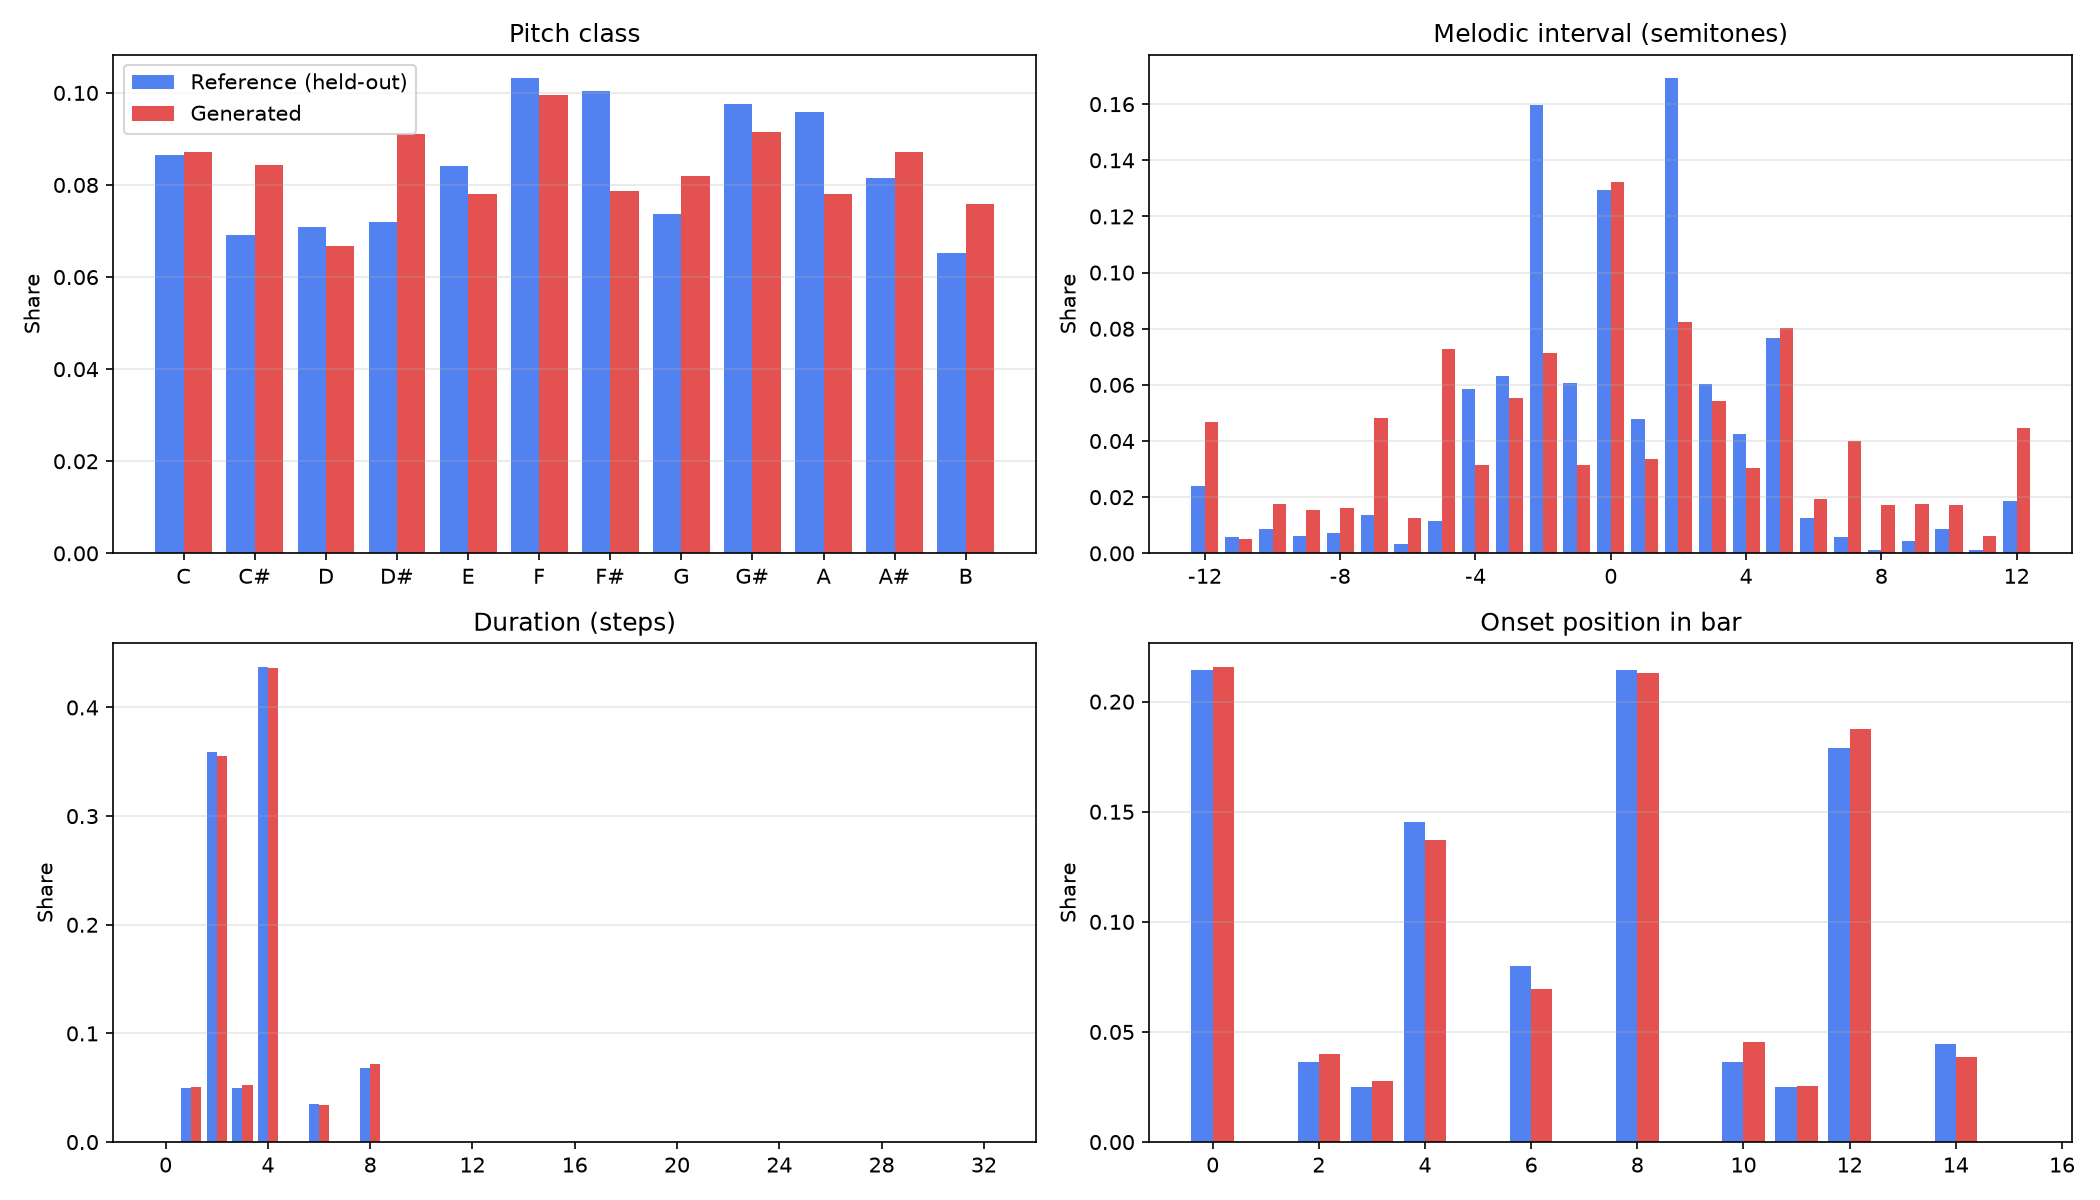
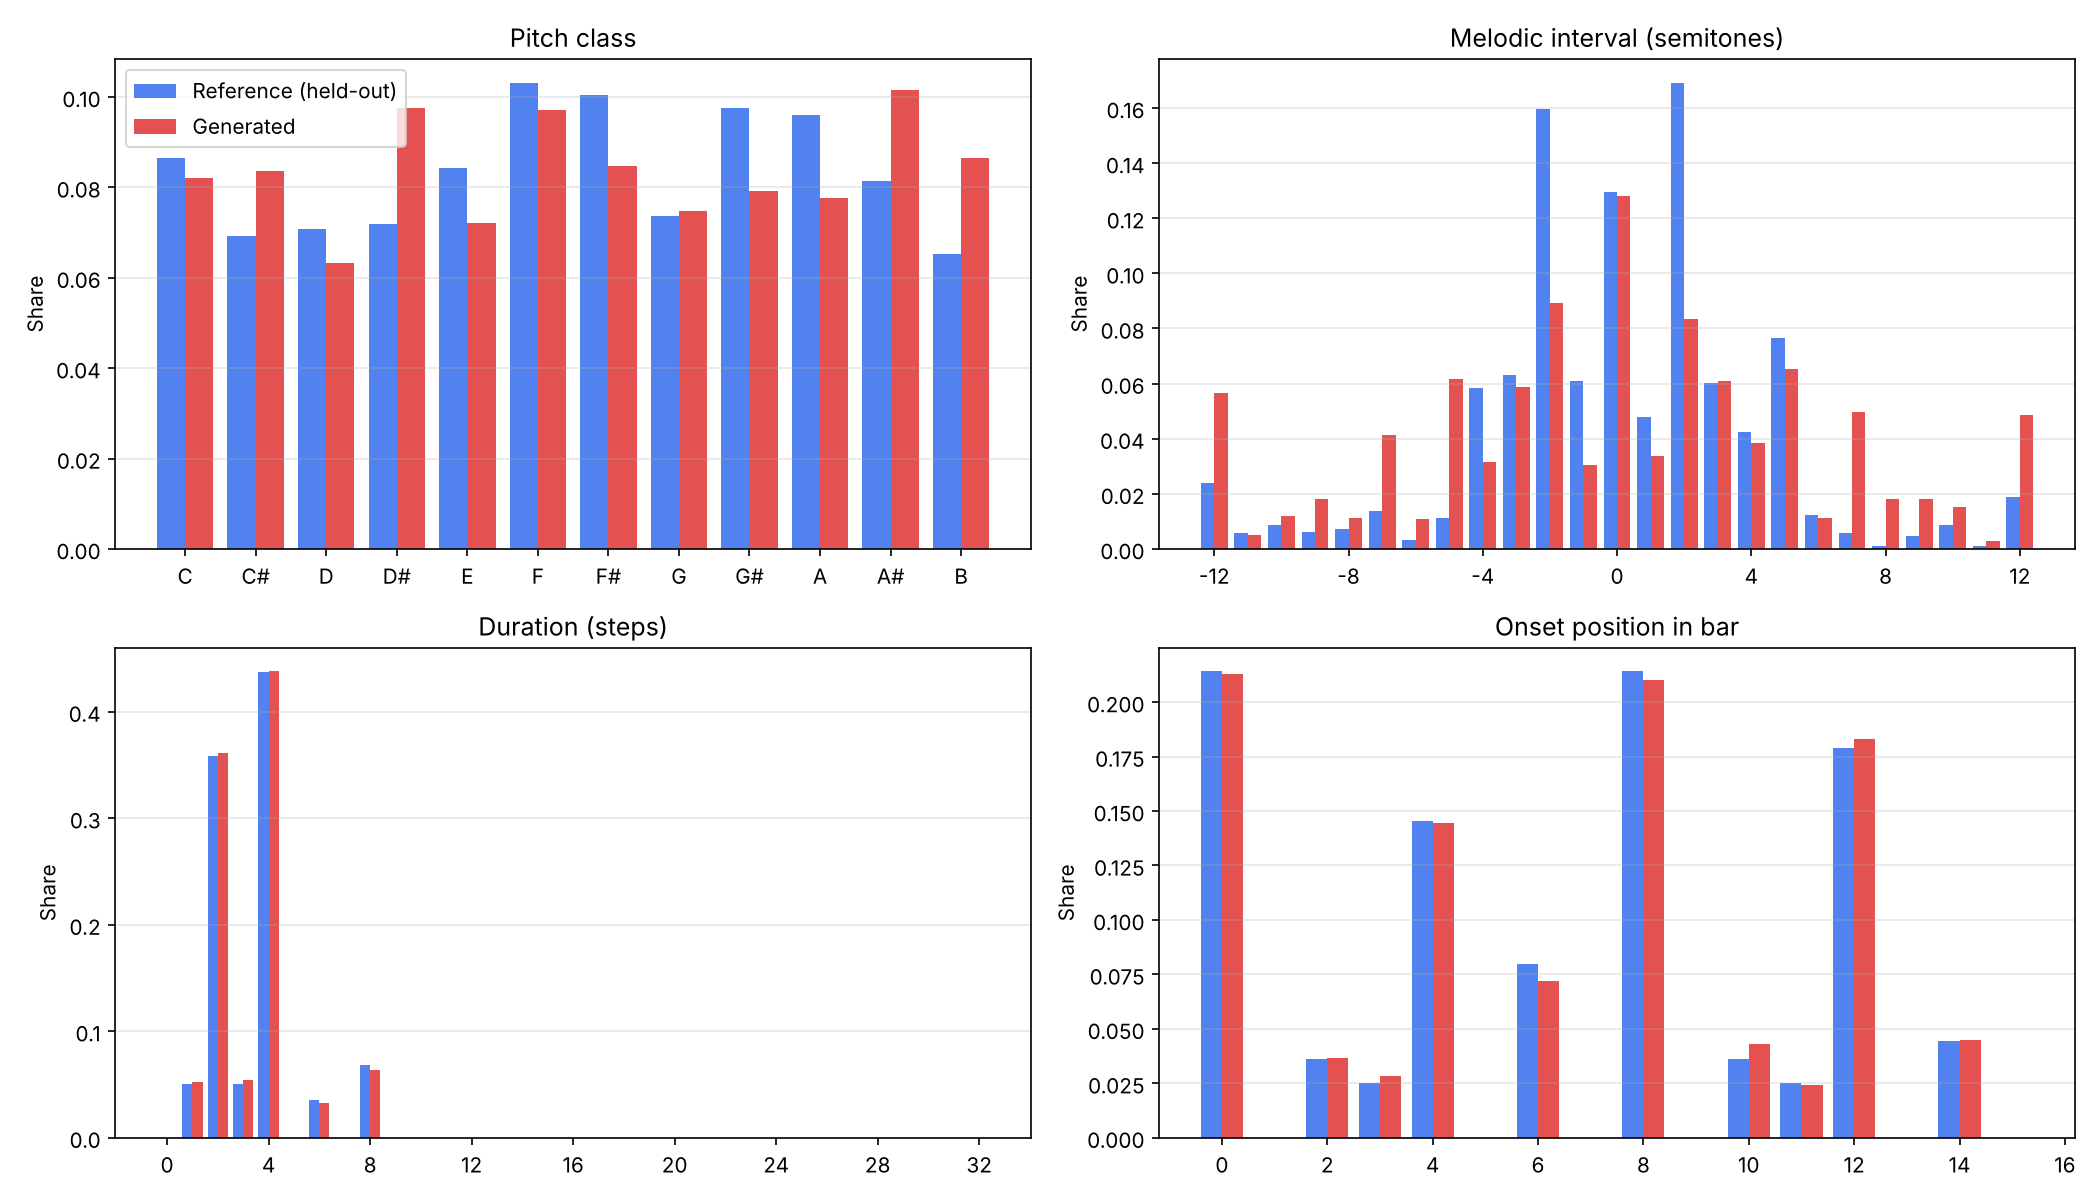
Re-run the benchmark after the continuation fix and rewrite the README opening
The README now opens with what the project is and a link to the demo, then
how to run it locally, then the technical notes. The results table and
figures come from a fresh run of all three models with the exact commands
listed. The page now reports the overwrite bug as measured on the trained
model, gives the vocabulary chart's BAR group room for its label, and
enlarges the key chart.

Claude-Session: https://claude.ai/code/session_014HUYQAY4r8sqmYSqd47Qsp

diff --git a/docs/index.html b/docs/index.html
@@ -105,9 +105,10 @@ is (after a bar line, inside a note, at which position) and returns the set of l
 <a href="https://github.com/edwin580/music-generator/blob/main/src/musegen/data/tokenizer.py">tokenizer.py</a>).
 The sampling loop is <code>generate_tokens</code> in
 <a href="https://github.com/edwin580/music-generator/blob/main/src/musegen/generation.py">generation.py</a>.
-While building this page I found a bug there: after a prompt, the grammar still allowed later
-positions in the prompt's last bar, so the model wrote notes into the prompt. In a test, 46 of 50
-continuations did. Now the sampler opens a new bar first, and a test checks it.</p>
+While building this page I found a bug there. If a
+prompt ended in a rest, the grammar still allowed positions later in its last bar, and the model
+filled them, writing notes into the prompt. With the 26 test prompts cut two beats early, all 52
+continuations did. Now the sampler opens a new bar first and none do. A test checks it.</p>
 
 <h2>Finding the key</h2>
 

diff --git a/README.md b/README.md
@@ -146,49 +146,57 @@ drag, as in his Tangle library, and the figures below them redraw.
 
 ## Results
 
-These numbers come from a short **CPU-only benchmark on the synthetic corpus**
-(`musegen synth-data --n 256`: 256 procedurally composed 16-bar pieces, split 204/26/26 by file).
-Each model trained for 25 epochs, a few minutes each. The runs had not converged, so treat this
-as a check that the pipeline works and a comparison of the models, not as final quality. On the
-real MIDIWorld set, or with a Colab GPU and more epochs, expect different numbers.
-Reproduce with:
+These numbers come from a short CPU benchmark on the synthetic corpus
+(`musegen synth-data --n 256`: 256 procedurally composed 16 bar pieces, split 204/26/26 by file).
+Each model trained for 25 epochs, a few minutes each. The runs had not converged, so read this
+as a check that the pipeline works and a comparison between the models, not as final quality. On
+real MIDI, or with a GPU and more epochs, expect different numbers. The Transformer in the browser
+demo is the one from this table. Reproduce with:
 
 ```bash
 musegen synth-data --dest data/synth256 --n 256 --seed 7
 musegen train -c transformer --midi-dir data/synth256 --output-dir runs/synth_transformer \
     --set model.d_model=128 model.n_layers=4 model.n_heads=4 data.seq_len=256 data.stride=128 train.epochs=25
+musegen train -c lstm --midi-dir data/synth256 --output-dir runs/synth_lstm \
+    --set model.d_model=256 train.epochs=25
+musegen train -c pianoroll_lstm --midi-dir data/synth256 --output-dir runs/synth_pianoroll \
+    --set train.epochs=25
 musegen evaluate -m runs/synth_transformer/best.pt --num-samples 32 --bars 12 --prompt-bars 4 [--key auto]
 ```
 
-Evaluation takes 32 samples (cycling through the 26 test pieces): each continues 4 bars of a held-out prompt for 12 bars.
+Evaluation takes 32 samples (cycling through the 26 test pieces). Each continues 4 bars of a
+held-out prompt for 12 bars and is compared with the piece's real next 12 bars.
 
 | model | params | held-out likelihood | scale consistency | key clarity | pitch-class OA | interval OA | rhythm (onset) OA |
 |---|---|---|---|---|---|---|---|
-| real continuations | – | – | 1.000 | 0.762 | – | – | – |
-| Transformer | 0.81 M | perplexity **3.01** | 0.793 | 0.614 | 0.93 | 0.72 | 0.97 |
-| Transformer + `--key auto` | | | **1.000** | **0.786** | 0.94 | 0.73 | 0.97 |
-| LSTM (tokens) | 1.09 M | perplexity **2.62** | 0.792 | 0.553 | 0.91 | 0.81 | 0.98 |
-| LSTM (tokens) + `--key auto` | | | **1.000** | 0.705 | 0.90 | 0.81 | 0.98 |
+| real continuations | | | 1.000 | 0.762 | | | |
+| Transformer | 0.81 M | perplexity **3.01** | 0.794 | 0.644 | 0.92 | 0.69 | 0.98 |
+| Transformer + `--key auto` | | | **1.000** | **0.799** | 0.92 | 0.75 | 0.99 |
+| LSTM (tokens) | 1.09 M | perplexity **2.62** | 0.783 | 0.568 | 0.92 | 0.83 | 0.98 |
+| LSTM (tokens) + `--key auto` | | | **1.000** | 0.737 | 0.90 | 0.80 | 0.98 |
 | piano-roll LSTM (notebook model, fixed) | 1.14 M | frame F1 0.67 | 0.841 | 0.708 | 0.90 | 0.80 | 0.76 |
 | piano-roll LSTM + `--key auto` | | | 0.999 | 0.774 | 0.93 | 0.76 | 0.80 |
 
 *OA = overlap area between the generated and real histograms (1.0 = identical distributions).*
 
+These were re-run after fixing a bug in `generate_tokens`: after a prompt, sampling resumed inside
+the prompt's last bar, so a prompt ending in a rest got notes written into it. On these prompts the
+last bar is usually full, so the token models' numbers moved only slightly; the piano-roll model is
+unaffected.
+
 What the numbers show:
 
-- **The token models get rhythm almost exactly right** (onset-position and duration OA of
-  0.97-0.99). The piano-roll model, with no explicit notion of bars or durations, reaches only 0.76-0.81.
-  This is the main reason to prefer the REMI representation.
-- **The key constraint helps.** Without it, about 20% of generated notes fall outside the
-  best-fitting scale. With `--key auto`, every note is in the key of the prompt and tonal clarity
-  rises to or above that of the real music, with no retraining.
-- **All models are still weak at long-range structure.** The real continuations reuse their
-  4-bar motifs (repetition ratio 0.55); generated ones essentially never do (≈0.00). The Transformer
-  also leaps more than the real music (mean interval 5.2 vs 3.3 semitones). More training, longer
-  context and larger models are the obvious next steps; this is the gap the Transformer's
-  attention should eventually close.
-- At this tiny scale the LSTM has lower perplexity than the Transformer (2.62 vs 3.01). Transformers
-  usually need more data and training before they pull ahead.
+- **The token models get rhythm almost exactly right** (onset position and duration OA of 0.98 to
+  0.99). The piano-roll model has no explicit bars or durations and reaches 0.76 to 0.88. This is
+  the main reason to prefer the REMI representation.
+- **The key constraint helps.** Without it, about 20% of the Transformer's and LSTM's notes fall
+  outside the best fitting scale. With `--key auto`, every note is in the key of the prompt and
+  the Transformer's key clarity rises above that of the real music, with no retraining.
+- **All models are still weak at long-range structure.** The real continuations reuse their 4 bar
+  motifs (repetition ratio 0.55). Generated ones never do (0.00). The Transformer also leaps more
+  than the real music (mean interval 5.3 semitones against 3.2). More data, longer context and
+  more training are the next things I would try.
+- At this tiny scale the LSTM has lower perplexity than the Transformer (2.62 against 3.01).
 
 <p align="center">
   <img src="docs/images/transformer_continuation.png" alt="Transformer continuation: 4 prompt bars (blue) and 12 generated bars (red)" width="100%"><br>
@@ -197,7 +205,7 @@ What the numbers show:
 
 <p align="center">
   <img src="docs/images/transformer_distributions.png" alt="Pitch-class, interval, duration and onset distributions: generated vs held-out" width="100%"><br>
-  <em>Pooled statistics of generated vs. real continuations. Rhythm is matched closely; intervals are too wide.</em>
+  <em>Pooled statistics of generated and real continuations, key-constrained. Rhythm is matched closely; intervals are too wide.</em>
 </p>
 
 <p align="center">
